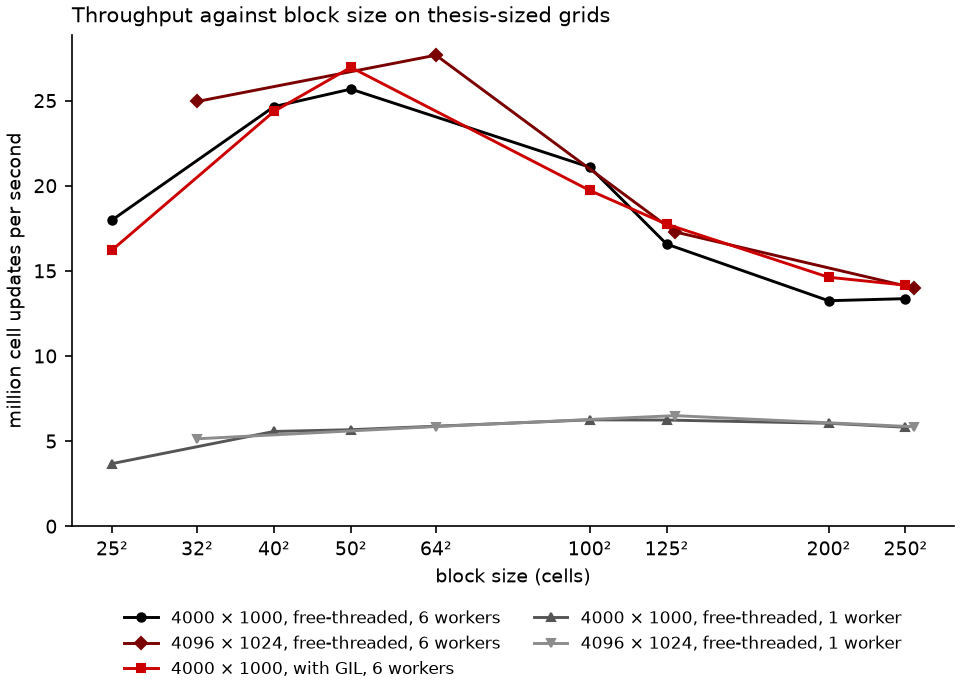
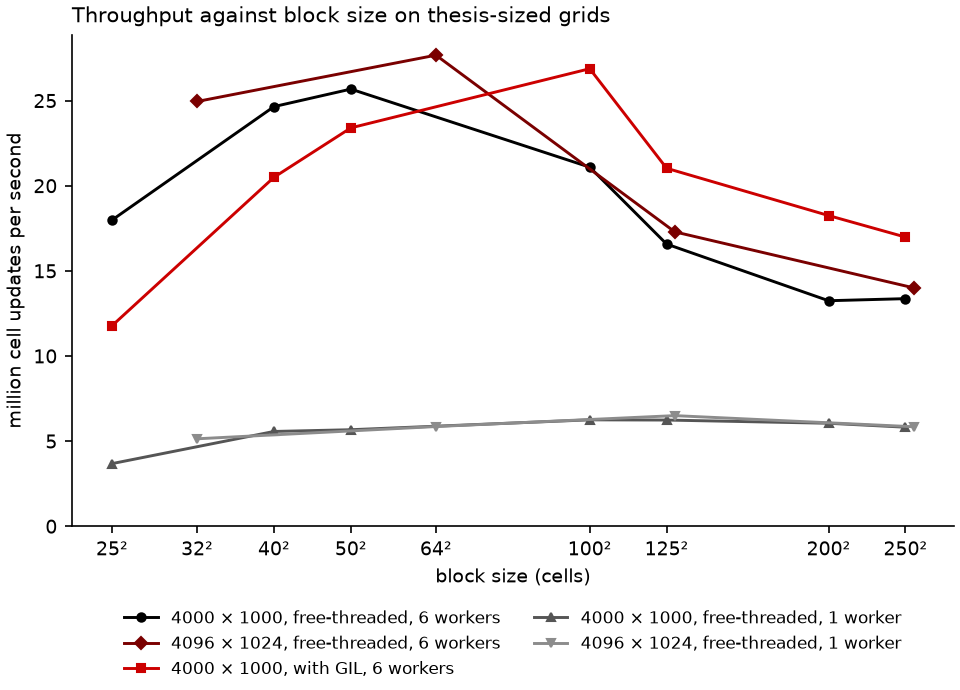
Correct the standard-interpreter results of experiment E07.1
The "with GIL" run of E07.1 had unintentionally used the free-threaded
interpreter: uv reused the cached environment of the free-threaded run
for the request "3.14". The driver now requests "3.14+gil"; the run was
repeated and the D07 brief's table, figure and statement are corrected,
with a dated correction note. The decisions of D07 are unaffected.

diff --git a/docs/decisions/D07-mesh/experiments/E07.1c-run.py b/docs/decisions/D07-mesh/experiments/E07.1c-run.py
@@ -17,7 +17,8 @@ from pathlib import Path
 
 HERE = Path(__file__).parent.resolve()
 RESULTS = HERE / "results"
-RUNS = {"macos-native-3.14t": ("3.14t", "1,6"), "macos-native-3.14": ("3.14", "6")}
+## uv may reuse a cached free-threaded script environment for a plain "3.14" request; "3.14+gil" forces the GIL build.
+RUNS = {"macos-native-3.14t": ("3.14t", "1,6"), "macos-native-3.14": ("3.14+gil", "6")}
 TITLES = {"macos-native-3.14t": "Python 3.14t (free-threaded)", "macos-native-3.14": "Python 3.14 (with GIL)"}
 
 

diff --git a/docs/decisions/D07-mesh/D07-mesh-brief.md b/docs/decisions/D07-mesh/D07-mesh-brief.md
@@ -72,14 +72,14 @@ The parallel model is that of D05: Python threads over fixed, contiguous ranges 
 | Block | Blocks | Cells stored per interior cell | Free-threaded, 1 worker | Free-threaded, 6 workers | With GIL, 6 workers |
 |---|---|---|---|---|---|
 | 4000 × 1000 (one block) | 1 | 1.01 | 5.8 | — | — |
-| 25² | 6400 | 1.35 | 3.7 | 18.0 | 16.2 |
-| 40² | 2500 | 1.21 | 5.6 | 24.7 | 24.4 |
-| 50² | 1600 | 1.17 | 5.7 | 25.7 | 27.0 |
-| 100 × 50 | 800 | 1.12 | 6.2 | **27.4** | **27.3** |
-| 100² | 400 | 1.08 | 6.3 | 21.1 | 19.7 |
-| 125² | 256 | 1.07 | 6.3 | 16.6 | 17.8 |
-| 200² | 100 | 1.04 | 6.1 | 13.3 | 14.6 |
-| 250² | 64 | 1.03 | 5.8 | 13.4 | 14.2 |
+| 25² | 6400 | 1.35 | 3.7 | 18.0 | 11.8 |
+| 40² | 2500 | 1.21 | 5.6 | 24.7 | 20.5 |
+| 50² | 1600 | 1.17 | 5.7 | 25.7 | 23.4 |
+| 100 × 50 | 800 | 1.12 | 6.2 | **27.4** | **28.6** |
+| 100² | 400 | 1.08 | 6.3 | 21.1 | 26.9 |
+| 125² | 256 | 1.07 | 6.3 | 16.6 | 21.0 |
+| 200² | 100 | 1.04 | 6.1 | 13.3 | 18.3 |
+| 250² | 64 | 1.03 | 5.8 | 13.4 | 17.0 |
 
 On the 4096 × 1024 grid, 64² blocks gave 27.7 (6 workers) and 5.9 (1 worker), and 32² gave 25.0 and 5.1. These are in line with the neighbouring thesis-grid sizes.
 
@@ -88,7 +88,9 @@ On the 4096 × 1024 grid, 64² blocks gave 27.7 (6 workers) and 5.9 (1 worker), 
 - **Below about 40², overhead takes over.** At 25², ghost cells add 35 % to the cells stored, and per-block overhead grows; the single-worker speed falls by 40 %.
 - **Rectangular blocks elongated along the contiguous direction were the best on the thesis grid** (100 × 50). That gives long inner loops with fewer cells per block.
 - **Blocking also pays on one core:** 100² blocks were 9 % faster than one block of the whole grid, presumably through cache reuse.
-- **In this run, the standard interpreter with 6 threads was as fast as the free-threaded one,** unlike E05.2, where it reached only 3×. The kernel does more work per block here (five variables, three velocity components), so the share of time spent holding the GIL is smaller. That supports the requirement of D05.4: keep the Python per block small, and the standard interpreter scales too. This was measured on macOS only, with 6 workers.
+- **With the standard interpreter, the best block size shifts to larger blocks** (corrected 2026-10-12, see the note below). It was faster than the free-threaded one from 100² upward (26.9 against 21.1 at 100²) and slower below (11.8 against 18.0 at 25²); its best was 100 × 50 (28.6). Larger blocks mean less Python per cell, and with the GIL that Python is serialised. Run-to-run variation on the laptop is about ±15 % (the free-threaded 50² run gave 25.7 here and 29.8 in E08.1), so differences of that size between separate runs are not significant.
+
+> **Correction (2026-10-12).** The column "With GIL" originally showed a run that, unintentionally, also used the free-threaded interpreter. uv reused the cached environment of the free-threaded run for the request "3.14". That run had led to the statement that the standard interpreter was as fast as the free-threaded one. The driver now requests "3.14+gil", the run was repeated, and the column, the bullet above and the figure show the corrected results. The decisions of this brief do not depend on that column: the default block size of D07.3 is derived from the free-threaded results, which the free-threaded focus of D05.3 makes the primary target. For the standard interpreter, 50² blocks are about 18 % slower than its best size; D09 can take this into account when it chooses defaults per interpreter.
 
 ### E07.2 — The cost of general geometry
 

diff --git a/docs/decisions/D07-mesh/experiments/results/E07.1c-block-size.md b/docs/decisions/D07-mesh/experiments/results/E07.1c-block-size.md
@@ -7,24 +7,24 @@ Natively on macOS-26.7.1-x86_64-i386-64bit-Mach-O; NumPy 2.5.4. Million cell upd
 | Block | Blocks | Cells with ghosts | Python 3.14t (free-threaded), 1 workers | Python 3.14t (free-threaded), 6 workers | Python 3.14 (with GIL), 6 workers |
 |---|---|---|---|---|---|
 | 4000 × 1000 | 1 | 1.01 | 5.8 ✓ |  |  |
-| 25 × 25 | 6400 | 1.35 | 3.7 ✓ | 18.0 ✓ | 16.2 ✓ |
-| 40 × 40 | 2500 | 1.21 | 5.6 ✓ | 24.7 ✓ | 24.4 ✓ |
-| 50 × 50 | 1600 | 1.17 | 5.7 ✓ | 25.7 ✓ | 27.0 ✓ |
-| 100 × 100 | 400 | 1.08 | 6.3 ✓ | 21.1 ✓ | 19.7 ✓ |
-| 125 × 125 | 256 | 1.07 | 6.3 ✓ | 16.6 ✓ | 17.8 ✓ |
-| 200 × 200 | 100 | 1.04 | 6.1 ✓ | 13.3 ✓ | 14.6 ✓ |
-| 250 × 250 | 64 | 1.03 | 5.8 ✓ | 13.4 ✓ | 14.2 ✓ |
-| 100 × 50 | 800 | 1.12 | 6.2 ✓ | 27.4 ✓ | 27.3 ✓ |
-| 200 × 50 | 400 | 1.10 | 6.3 ✓ | 22.1 ✓ | 22.5 ✓ |
+| 25 × 25 | 6400 | 1.35 | 3.7 ✓ | 18.0 ✓ | 11.8 ✓ |
+| 40 × 40 | 2500 | 1.21 | 5.6 ✓ | 24.7 ✓ | 20.5 ✓ |
+| 50 × 50 | 1600 | 1.17 | 5.7 ✓ | 25.7 ✓ | 23.4 ✓ |
+| 100 × 100 | 400 | 1.08 | 6.3 ✓ | 21.1 ✓ | 26.9 ✓ |
+| 125 × 125 | 256 | 1.07 | 6.3 ✓ | 16.6 ✓ | 21.0 ✓ |
+| 200 × 200 | 100 | 1.04 | 6.1 ✓ | 13.3 ✓ | 18.3 ✓ |
+| 250 × 250 | 64 | 1.03 | 5.8 ✓ | 13.4 ✓ | 17.0 ✓ |
+| 100 × 50 | 800 | 1.12 | 6.2 ✓ | 27.4 ✓ | 28.6 ✓ |
+| 200 × 50 | 400 | 1.10 | 6.3 ✓ | 22.1 ✓ | 26.7 ✓ |
 
 ## Grid 4096 × 1024
 
 | Block | Blocks | Cells with ghosts | Python 3.14t (free-threaded), 1 workers | Python 3.14t (free-threaded), 6 workers | Python 3.14 (with GIL), 6 workers |
 |---|---|---|---|---|---|
 | 4096 × 1024 | 1 | 1.00 | 5.6 ✓ |  |  |
-| 32 × 32 | 4096 | 1.27 | 5.1 ✓ | 25.0 ✓ | 25.8 ✓ |
-| 64 × 64 | 1024 | 1.13 | 5.9 ✓ | 27.7 ✓ | 28.3 ✓ |
-| 128 × 128 | 256 | 1.06 | 6.5 ✓ | 17.3 ✓ | 17.2 ✓ |
-| 256 × 256 | 64 | 1.03 | 5.9 ✓ | 14.0 ✓ | 13.8 ✓ |
+| 32 × 32 | 4096 | 1.27 | 5.1 ✓ | 25.0 ✓ | 17.4 ✓ |
+| 64 × 64 | 1024 | 1.13 | 5.9 ✓ | 27.7 ✓ | 24.3 ✓ |
+| 128 × 128 | 256 | 1.06 | 6.5 ✓ | 17.3 ✓ | 21.9 ✓ |
+| 256 × 256 | 64 | 1.03 | 5.9 ✓ | 14.0 ✓ | 15.4 ✓ |
 
 ![E07.1](E07.1d-block-size.png)
